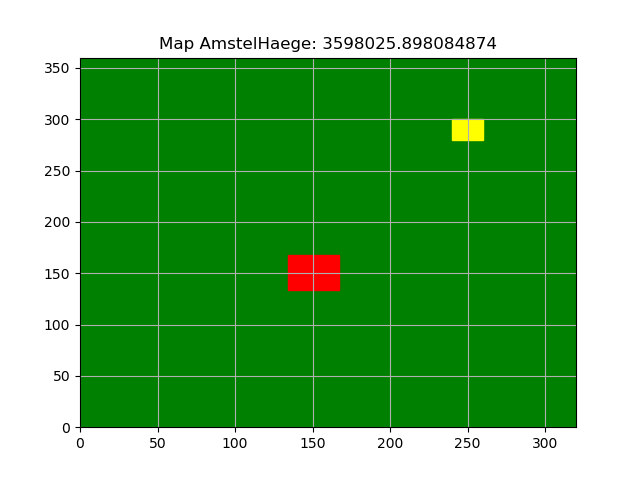
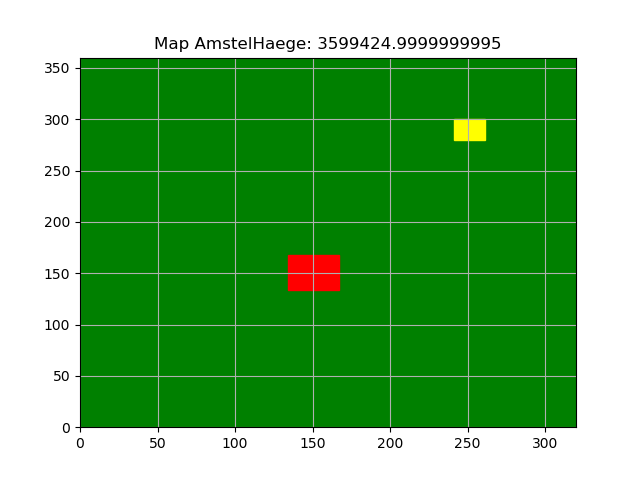
plots

Changed region(s): [[0.2188, 0.0625, 0.7812, 0.125], [0.75, 0.25, 0.7812, 0.2812], [0.6875, 0.25, 0.7188, 0.2812]]

diff --git a/AmstelHaege/code/hill_climber_rdm_sys.py b/AmstelHaege/code/hill_climber_rdm_sys.py
@@ -27,6 +27,10 @@ def main():
     starttime = datetime.datetime.now()
     print(starttime.strftime("%Y-%m-%d %H:%M:%S") +"\n")
     values = []
+    x_value = 0
+    x_values = []
+    values.append(total_value)
+    x_values.append(x_value)
 
     try:
         for i in range(2):
@@ -37,7 +41,7 @@ def main():
                 for x in range(0, rdm_amstelhaege.width - rdm_amstelhaege.houses_placed[index].width, 1):
                     old_x = rdm_amstelhaege.houses_placed[index].x
                     old_y = rdm_amstelhaege.houses_placed[index].y
-
+                    x_value += 1
                     rdm_amstelhaege.move_house(index, x, y)
                     # print(x,y)
 
@@ -65,7 +69,7 @@ def main():
                         if rdm_amstelhaege.value > total_value:
                             total_value = rdm_amstelhaege.value
                             values.append(rdm_amstelhaege.value)
-                            # best_plot = rdm_amstelhaege
+                            x_values.append(x_value)# best_plot = rdm_amstelhaege
                             # rdm_amstelhaege.plot_distribution()
                             # print("more")
                             # file.write(str(total_value)+ "\n")
@@ -92,6 +96,12 @@ def main():
     fig = rdm_amstelhaege.plot_distribution()
     fig.savefig('rand_sys1 .png')
     plt.close(fig)
+
+    plt.plot(x_values, values, color = 'lightseagreen')
+    plt.title("Random Hillclimber")
+    plt.grid(True)
+
+    plt.show()
 
 if __name__ == "__main__":
     main()
